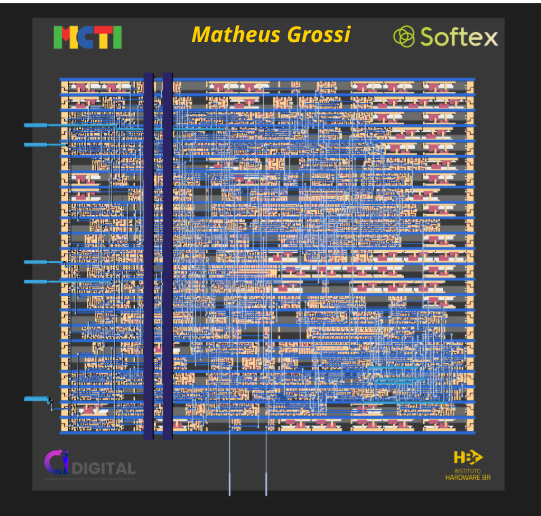
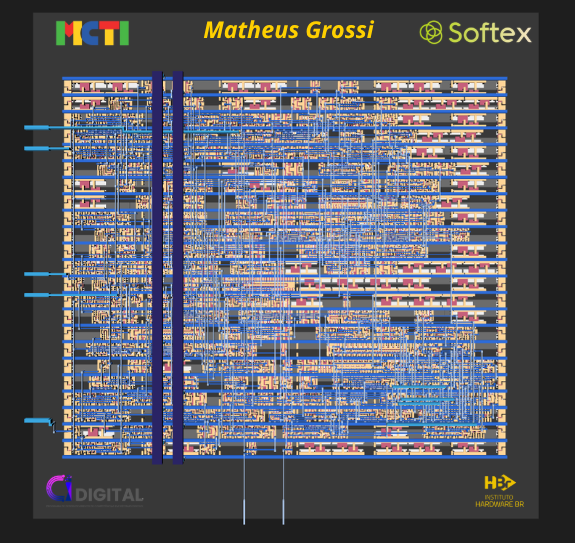
Correções no README

diff --git a/README.md b/README.md
@@ -1,37 +1,28 @@
 # Gerador de Números Pseudoaleatórios (RNG) Não Repetitivos
 
-Este projeto consiste na implementação em Verilog de um Gerador de Números Pseudoaleatórios (PRNG). O sistema foi projetado para gerar números de 3 bits (faixa de 0 a 7) utilizando 4 sementes (seeds) distintas baseadas em tabelas de permutação.
+<div align="center">
 
-![Topview](https://github.com/MattGrossi12/random_number_generator-rng-/blob/main/diagrams/topview/topview.png)
+| **Ação** |
+| :--- |
+|Este projeto consiste na implementação em Verilog de um Gerador de Números Pseudoaleatórios (PRNG). O sistema foi projetado para gerar números de 3 bits (faixa de 0 a 7) utilizando 4 sementes (seeds) distintas baseadas em tabelas de permutação. |
+|![Topview](https://github.com/MattGrossi12/random_number_generator-rng-/blob/main/diagrams/topview/topview.png)|
+| Esta é a vista pós-síntense do SoC: |
+|![socview](https://github.com/MattGrossi12/random_number_generator-rng-/blob/main/diagrams/soc_view.png)|
+|A principal característica deste projeto é o mecanismo de detecção de duplicatas, que assegura que os números gerados não se repitam dentro de um ciclo de operação, garantindo a unicidade da saída até que a sequência seja reiniciada ou o buffer seja limpo.|
+|![Waveform](https://github.com/MattGrossi12/random_number_generator-rng-/blob/main/diagrams/timing/timing.png)|
+|Esta é a visão de topo do circuito:|
+|![xplode_view_pt](https://github.com/MattGrossi12/random_number_generator-rng-/blob/main/diagrams/fpga_post_synth/top_view.png)|
+|Esta é a vista explodida 1:|
+|![xplode_view_pt](https://github.com/MattGrossi12/random_number_generator-rng-/blob/main/diagrams/fpga_post_synth/xplode_view_pt1.png)|
+|Esta é a vista explodida 2:|
+|![xplode_view_pt](https://github.com/MattGrossi12/random_number_generator-rng-/blob/main/diagrams/fpga_post_synth/xplode_view_pt2.png)|
+|Esta é a vista explodida 3:|
+|![xplode_view_pt](https://github.com/MattGrossi12/random_number_generator-rng-/blob/main/diagrams/fpga_post_synth/xplode_view_pt3.png)|
+|Esta é a vista explodida 4:|
+|![xplode_view_pt](https://github.com/MattGrossi12/random_number_generator-rng-/blob/main/diagrams/fpga_post_synth/xplode_view_pt4.png)|
 
-Esta é a vista pós-síntense do SoC:
 
-![socview](https://github.com/MattGrossi12/random_number_generator-rng-/blob/main/diagrams/soc_view.png)
-
-A principal característica deste projeto é o mecanismo de detecção de duplicatas, que assegura que os números gerados não se repitam dentro de um ciclo de operação, garantindo a unicidade da saída até que a sequência seja reiniciada ou o buffer seja limpo.
-
-![Waveform](https://github.com/MattGrossi12/random_number_generator-rng-/blob/main/diagrams/timing/timing.png)
-
-Esta é a visão de topo do circuito:
-
-![xplode_view_pt](https://github.com/MattGrossi12/random_number_generator-rng-/blob/main/diagrams/fpga_post_synth/top_view.png)
-
-Esta é a vista explodida 1:
-
-![xplode_view_pt](https://github.com/MattGrossi12/random_number_generator-rng-/blob/main/diagrams/fpga_post_synth/xplode_view_pt1.png)
-
-Esta é a vista explodida 2:
-
-![xplode_view_pt](https://github.com/MattGrossi12/random_number_generator-rng-/blob/main/diagrams/fpga_post_synth/xplode_view_pt2.png)
-
-Esta é a vista explodida 3:
-
-![xplode_view_pt](https://github.com/MattGrossi12/random_number_generator-rng-/blob/main/diagrams/fpga_post_synth/xplode_view_pt3.png)
-
-Esta é a vista explodida 4:
-
-![xplode_view_pt](https://github.com/MattGrossi12/random_number_generator-rng-/blob/main/diagrams/fpga_post_synth/xplode_view_pt4.png)
-
+<div align="justify">
 
 ## Características do Sistema
 
@@ -61,60 +52,19 @@ O sistema utiliza um conjunto extenso de parâmetros para garantir que as largur
 Abaixo está detalhada a organização dos diretórios e arquivos do repositório.
 
 ```text
-.├── diagrams
-│   ├── timing
-│   │   ├── timing.png
-│   │   ├── timing.puml
-│   │   └── timing.sh
-│   └── topview
-│       ├── diagram.sh
-│       ├── topview.png
-│       └── topview.puml
+├── diagrams
 ├── doc
-│   ├── doc.aux
-│   ├── doc.log
-│   ├── doc.pdf
-│   └── doc.tex
+├── librelane_synth
 ├── makefiles_and_scripts
-│   ├── control_path.sh
-│   ├── data_path_counter.sh
-│   ├── data_path.sh
-│   ├── fifo.sh
-│   ├── hs.sh
-│   ├── Makefile_control_path
-│   ├── Makefile_data_path
-│   ├── Makefile_data_path_counter
-│   ├── Makefile_fifo
-│   ├── Makefile_hs
-│   ├── Makefile_rd
-│   ├── Makefile_sel
-│   ├── Makefile_top
-│   ├── sel.sh
-│   ├── top.sh
-│   └── verilog.log
-├── README.md
+├── rng_fpga_based
+├── schematic
 ├── src
-│   ├── rng_control_path.v
-│   ├── rng_data_base.vh
-│   ├── rng_data_path_counter.v
-│   ├── rng_data_path.v
-│   ├── rng_hs_dup_detector.v
-│   ├── rng_selector.v
-│   └── rng_top.v
 ├── testbenchs
-│   ├── testbench_control_path.v
-│   ├── testbench_data_path_counter.v
-│   ├── testbench_data_path.v
-│   ├── testbench_hs.v
-│   ├── testbench_sel.sv
-│   └── testbench.v
+├── UVM
 └── waveforms
-    ├── control_path.vcd
-    ├── data_path_counter.vcd
-    ├── data_path.vcd
-    ├── hs.vcd
-    ├── sel.vcd
-    └── top.vcd
+
+176 directories, 1178 files
+
 ```
 
 ## Estrutura do Projeto
